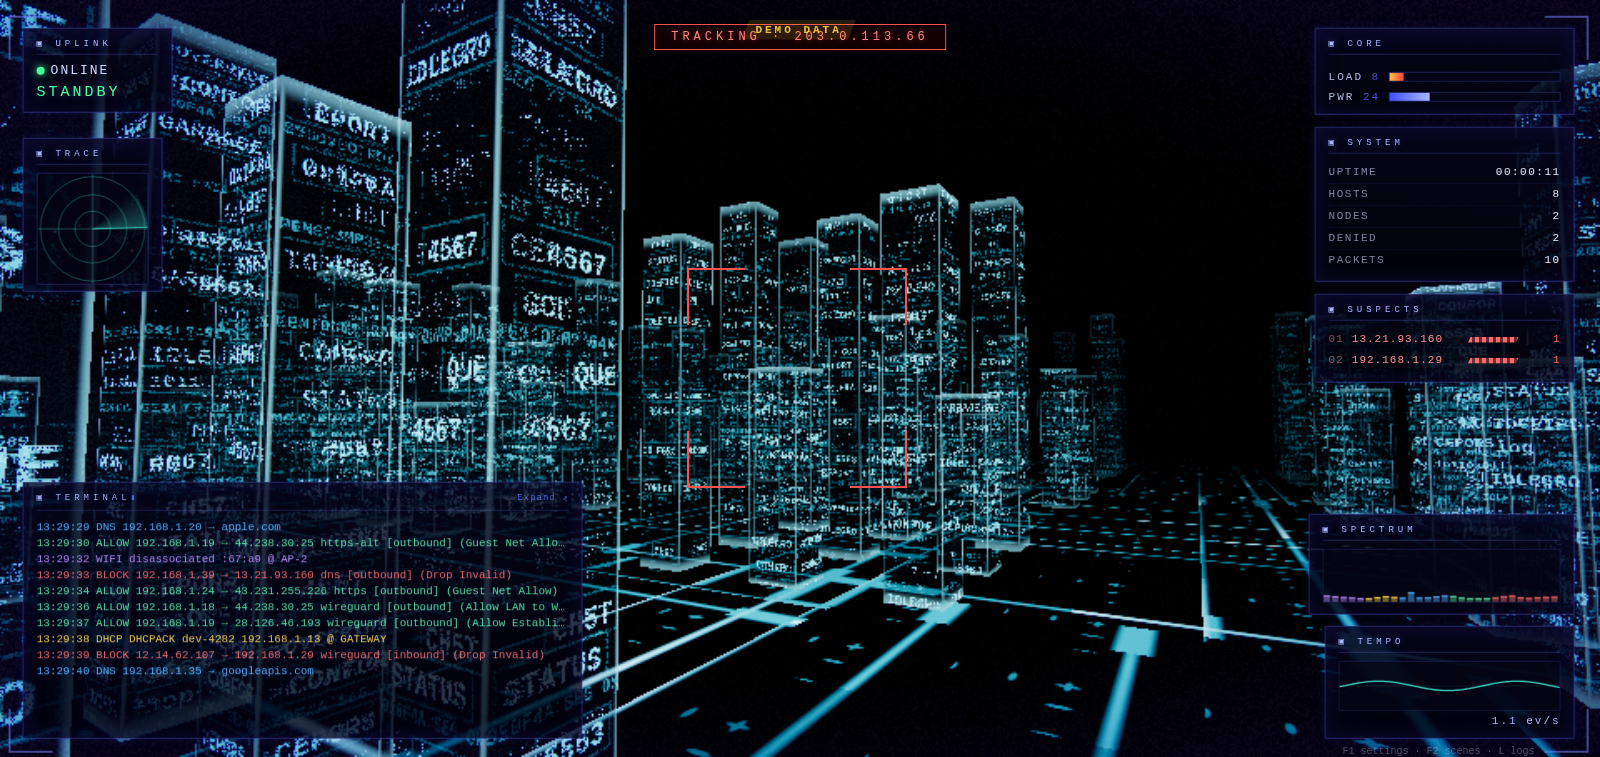
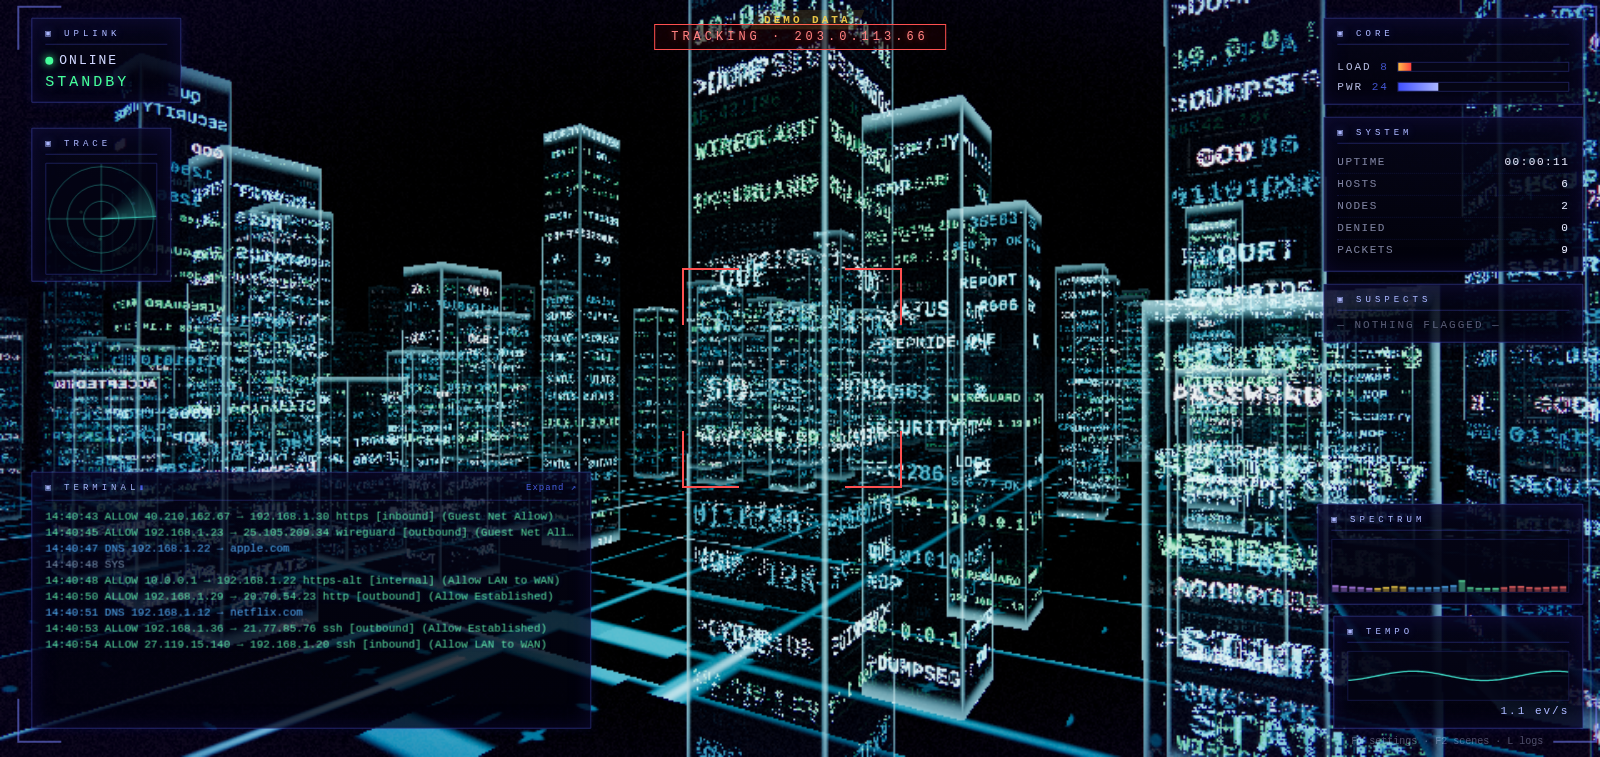
gibson: long sweeping corners with a swell; the wall speaks in log colors
The turns still read as a pivot: the arc was tight (radius 3) and the
flight slowed to 70% through it. Widen the arc to 6.5 - it still fits
the street, the corner dips only r(sqrt2-1) toward a block - and fly it
at full speed, so a ninety-degree turn is a long glide instead of a
pause-and-shuffle. Add a slow rise-and-fall swell so the flight drifts
up and down through the streets.

The listings were random filler. They now come off the live log stream
- addresses, domains, hostnames, services, access points - each drawn
in the color the comms log already gives that kind of message: green
allow, red block, orange threat, blue DNS, yellow DHCP, violet Wi-Fi.
Long hostnames shrink to fit their box instead of being skipped, and a
quiet hum of generic wall-words keeps faces busy until the stream fills
the pool. The tower shader was tinting sampled words back to cyan by
luminance; it keeps the atlas color now, so the wall says allow/DNS/
block in the same colors as the log.

diff --git a/web/src/themes/gibson/textatlas.ts b/web/src/themes/gibson/textatlas.ts
@@ -1,17 +1,16 @@
 import { CanvasTexture, NearestFilter, SRGBColorSpace } from 'three';
 
 /**
- * The listings on the tower faces, like the film's cyberspace: glowing cyan
- * words — STATUS, ERROR, REPORT, Security, R606, >OVERRIDE — each set inside
- * a thin digital box, with dim hex/binary log lines underneath, covering the
- * faces and scrolling slowly up or down. Words seen in live traffic
- * (hostnames, DNS queries, addresses) join the pool, so the wall quietly
- * fills with your own network. The whole atlas redraws every few seconds;
- * towers pick cells with per-face hashes, so no two faces match.
- *
- * The atlas is a grid of cells sized to match one line-strip on a tower face
- * (1 world unit wide : uPitch tall), so glyphs keep their aspect and read as
- * words in boxes, not stripes.
+ * The listings on the tower faces, like the film's cyberspace: glowing words
+ * set in thin digital boxes, scrolling slowly up or down the faces. The words
+ * are the network's own log stream - the addresses, domains, hostnames,
+ * services and devices from live traffic - each drawn in the color the comms
+ * log gives that kind of message: green allow, red block, orange threat,
+ * blue DNS, yellow DHCP, violet Wi-Fi. Long words shrink to fit their box,
+ * so a whole hostname reads on one line. Until the stream has filled the
+ * pool, a quiet hum of generic wall-words keeps the faces busy; the real log
+ * takes over from there. The atlas repaints a few cells at a time, so new
+ * words trickle in while the towers keep scrolling.
  */
 
 const COLS = 8;
@@ -19,18 +18,23 @@ const ROWS = 6;
 const CW = 128;
 const CH = 96;
 
-const TOKENS = [
-  'STATUS', 'REPORT', 'ERROR', 'Security', 'COMFRO', 'CONFOR', 'CEPORS',
-  'IDLEGRO', 'IDEEIBD', 'CH57', '7P57', 'R606', 'SARE', '4S67', '3816',
-  '4567', 'CH5T', '>OVERRIDE', '>DUMPSEG', '>VMERASE', 'log', 'mov', 'nop',
-  'QUE', 'PASSWORD', '11010011', '01101010', '10110x011', '0x1F8A', '20fx89c',
-  '5563', '1286', '35563', 'GARBAGE', 'GOD', 'ACCEPTED', '>>> ',
+/** the comms log's own palette (styles.css), so wall and log agree */
+export type WordKind = 'allow' | 'block' | 'threat' | 'dns' | 'dhcp' | 'wifi' | 'system';
+const KIND_COLOR: Record<WordKind, string> = {
+  allow: '#5ce6a4', block: '#ff6b6b', threat: '#ff9a45', dns: '#55b5ff',
+  dhcp: '#ffd84d', wifi: '#c08cff', system: '#7d99b3',
+};
+
+const AMBIENT: Array<[string, string]> = [
+  ['STATUS', '#5fe6ff'], ['REPORT', '#5fe6ff'], ['SECURITY', '#5fe6ff'],
+  ['R606', '#5fe6ff'], ['>OVERRIDE', '#9fefff'], ['>DUMPSEG', '#9fefff'],
+  ['LOG', '#5fe6ff'], ['NOP', '#5fe6ff'], ['QUE', '#5fe6ff'],
+  ['PASSWORD', '#dff2ff'], ['ACCEPTED', '#dff2ff'], ['GOD', '#e8fbff'],
+  ['01101010', '#3fa8c8'], ['0x1F8A', '#3fa8c8'], ['1286', '#3fa8c8'],
+  ['35563', '#3fa8c8'], ['SEG 77 OK', '#3fa8c8'], ['CRC 12K', '#3fa8c8'],
 ];
 
-const SUBS = [
-  '0x0F4A SEG OK', '10110 01101', '01101 00110', 'CRC FAIL 12K',
-  'SYS::LOG 771', 'MEM DUMP 64K', 'IO 0x3C RDY', 'PING 12MS', 'SEG 77 OK',
-];
+interface Word { t: string; c: string }
 
 export class TextAtlas {
   readonly texture: CanvasTexture;
@@ -38,7 +42,8 @@ export class TextAtlas {
   readonly rows = ROWS;
   private canvas: HTMLCanvasElement;
   private ctx: CanvasRenderingContext2D;
-  private words: string[] = [];
+  private words: Word[] = [];
+  private seen = new Set<string>();
 
   constructor() {
     this.canvas = document.createElement('canvas');
@@ -53,14 +58,20 @@ export class TextAtlas {
     this.rebuild();
   }
 
-  /** A word from live traffic joins the listings. */
-  addWord(s: string | null | undefined): void {
+  /** A piece of the log stream joins the listings, in its log color. */
+  addWord(s: string | null | undefined, kind: WordKind = 'system'): void {
     if (!s) return;
-    const w = s.toUpperCase().replace(/\s+/g, ' ').slice(0, 14);
-    if (!w) return;
-    this.words.push(w);
-    if (this.words.length > 400) this.words.splice(0, 200);
+    const w = s.toUpperCase().replace(/[^0-9A-Z._:@-]+/g, ' ').trim().replace(/\s+/g, ' ').slice(0, 14);
+    if (!w || this.seen.has(w)) return;
+    this.seen.add(w);
+    this.words.push({ t: w, c: KIND_COLOR[kind] ?? '#5fe6ff' });
+    if (this.words.length > 400) {
+      const dropped = this.words.splice(0, 200);
+      for (const d of dropped) this.seen.delete(d.t);
+    }
   }
+
+  get streamSize(): number { return this.words.length; }
 
   private first = true;
 
@@ -79,34 +90,70 @@ export class TextAtlas {
     this.texture.needsUpdate = true;
   }
 
+  /** Prefer the live log once it has a decent pool; ambient hum before and between. */
+  private pick(): Word {
+    if (this.words.length >= 30 && Math.random() < 0.85) {
+      return this.words[(Math.random() * this.words.length) | 0];
+    }
+    if (this.words.length && Math.random() < 0.4) {
+      return this.words[(Math.random() * this.words.length) | 0];
+    }
+    const [t, c] = AMBIENT[(Math.random() * AMBIENT.length) | 0];
+    return { t, c };
+  }
+
   private drawCell(col: number, row: number): void {
     const c = this.ctx;
     const x = col * CW, y = row * CH;
     c.fillStyle = '#000';
     c.fillRect(x, y, CW, CH);
-    const pick = (): string =>
-      this.words.length && Math.random() < 0.34
-        ? this.words[(Math.random() * this.words.length) | 0]
-        : TOKENS[(Math.random() * TOKENS.length) | 0];
-    const box = (word: string, by: number): void => {
-      const size = word.length > 11 ? 15 : word.length > 8 ? 19 : 24;
-      c.font = `bold ${size}px "Courier New", monospace`;
-      const bw = c.measureText(word).width + 12;
-      if (bw > CW - 10) return;
-      const bh = size + 8;
-      const bx = x + 4 + Math.random() * (CW - 8 - bw);
-      c.strokeStyle = 'rgba(52, 200, 255, 0.4)';
-      c.lineWidth = 2;
-      c.strokeRect(bx, by, bw, bh);
-      c.fillStyle = word === 'GARBAGE' || word === 'GOD' ? '#e8fbff' : '#5fe6ff';
-      c.fillText(word, bx + 6, by + bh - 6);
-    };
-    box(pick(), y + 3 + Math.random() * 8);
-    if (Math.random() < 0.85) box(pick(), y + 38 + Math.random() * 8);
+    this.box(this.pick(), x, y + 3 + Math.random() * 8);
+    if (Math.random() < 0.85) this.box(this.pick(), x, y + 38 + Math.random() * 8);
     if (Math.random() < 0.8) {
+      // the small print: another line of the stream, dimmed
+      const w = this.pick();
       c.font = `bold 15px "Courier New", monospace`;
-      c.fillStyle = 'rgba(40, 165, 205, 0.7)';
-      c.fillText(SUBS[(Math.random() * SUBS.length) | 0], x + 7, y + CH - 8);
+      c.fillStyle = rgba(w.c, 0.5);
+      c.fillText(w.t, x + 7, y + CH - 8);
     }
   }
+
+  /** A word in a thin digital box, in its log color, shrunk to fit the cell. */
+  private box(w: Word, x: number, by: number): void {
+    const c = this.ctx;
+    const base = w.t.length > 11 ? 15 : w.t.length > 8 ? 19 : 24;
+    c.font = `bold ${base}px "Courier New", monospace`;
+    // long hostnames and domains shrink until they fit their box; nothing
+    // gets skipped, the wall is meant to read like a real log
+    let text = w.t;
+    let size = base;
+    for (;;) {
+      const mw = c.measureText(text).width;
+      if (mw <= CW - 16) break;
+      const shrink = Math.floor(size * (CW - 16) / mw);
+      if (shrink >= 11 && shrink < size) {
+        size = shrink;
+        c.font = `bold ${size}px "Courier New", monospace`;
+        continue;
+      }
+      text = text.slice(0, Math.max(2, text.length - 2));
+      if (text.length <= 2) return;
+    }
+    const bw = c.measureText(text).width + 12;
+    const bh = size + 8;
+    const bx = x + 4 + Math.random() * Math.max(0, CW - 8 - bw);
+    c.strokeStyle = rgba(w.c, 0.4);
+    c.lineWidth = 2;
+    c.strokeRect(bx, by, bw, bh);
+    c.shadowColor = w.c;
+    c.shadowBlur = 4;
+    c.fillStyle = w.c;
+    c.fillText(text, bx + 6, by + bh - 6);
+    c.shadowBlur = 0;
+  }
+}
+
+function rgba(hex: string, a: number): string {
+  const n = parseInt(hex.slice(1), 16);
+  return `rgba(${(n >> 16) & 255}, ${(n >> 8) & 255}, ${n & 255}, ${a})`;
 }

diff --git a/web/src/themes/gibson/index.ts b/web/src/themes/gibson/index.ts
@@ -101,8 +101,8 @@ async function create(host: ThemeHost<typeof GIBSON_DEFAULTS>, init: RendererIni
   // street lattice lines. At each intersection it goes straight about half
   // the time, and otherwise carves a quarter arc of radius TURN_R - which
   // fits inside the street width, so the flight can't clip a tower or leave
-  // the city - landing exactly on the crossing street's line. Straights ease
-  // their speed down through a turn; nothing ever stops.
+  // the city - landing exactly on the crossing street's line. The arc is
+  // long and flown at full speed: a sweeping glide, never a pivot.
   let cx = 0, cz = 40;
   let kHead = 2; // down the street x = 0, heading -z
   let decidedFor = -1;
@@ -170,11 +170,12 @@ async function create(host: ThemeHost<typeof GIBSON_DEFAULTS>, init: RendererIni
   function event(se: SceneEvent, replay: boolean): void {
     const ev = se.ev;
     const who = ev.src_ip ?? ev.dst_ip ?? null;
-    if (se.kind === 'allow' || se.kind === 'block' || se.kind === 'threat') atlas.addWord(who);
+    if (se.kind === 'allow' || se.kind === 'block' || se.kind === 'threat') atlas.addWord(who, se.kind);
     if (replay) return;
     switch (se.kind) {
       case 'allow': {
         audio.cueSong('allow', who ?? undefined);
+        atlas.addWord(ev.service_name ?? (ev.dst_port ? `:${ev.dst_port}` : null), 'allow');
         if (!settings.gPulses || !throttle.allow(`gb|alw|${ev.src_ip}|${ev.dst_ip}`, 0.4)) break;
         towers.pulse(uOf(who));
         audio.sfx('pulse', { pan: (Math.random() - 0.5) * 1.2 });
@@ -190,7 +191,7 @@ async function create(host: ThemeHost<typeof GIBSON_DEFAULTS>, init: RendererIni
       }
       case 'threat': {
         audio.cueSong('threat', who ?? undefined);
-        atlas.addWord(who);
+        atlas.addWord(ev.service_name ?? null, 'threat');
         towers.flag(uOf(who), 8);
         if (settings.gLock && throttle.allow(`gb|thr|${who}`, 12)) startLock(who);
         break;
@@ -198,7 +199,8 @@ async function create(host: ThemeHost<typeof GIBSON_DEFAULTS>, init: RendererIni
       case 'dns': {
         audio.cueSong('dns', ev.src_ip ?? undefined);
         if (!settings.gLookups || !ev.dns_query || !throttle.allow(`gb|dns|${ev.dns_query}`, 3)) break;
-        atlas.addWord(ev.dns_query);
+        atlas.addWord(ev.dns_query, 'dns');
+        atlas.addWord(ev.dns_answer ?? null, 'dns');
         towers.pulse(uOf(ev.dns_query));
         break;
       }
@@ -206,7 +208,7 @@ async function create(host: ThemeHost<typeof GIBSON_DEFAULTS>, init: RendererIni
         if (!throttle.allow(`gb|dhcp|${ev.syslog_host}|${ev.hostname}`, 2)) break;
         audio.cueSong('dhcp');
         const name = ev.hostname || (ev.mac_address ? `dev-${ev.mac_address.replace(/:/g, '').slice(-4).toUpperCase()}` : ev.src_ip ?? 'device');
-        atlas.addWord(name);
+        atlas.addWord(name, 'dhcp');
         if (settings.gWrites) towers.raise(uOf(name));
         audio.sfx('write', { pan: (Math.random() - 0.5) });
         break;
@@ -216,10 +218,12 @@ async function create(host: ThemeHost<typeof GIBSON_DEFAULTS>, init: RendererIni
         audio.cueSong('wifi');
         if (se.wifi === 'joined') {
           audio.sfx('granted');
+          atlas.addWord(ev.syslog_host, 'wifi');
           banner('PASSWORD ACCEPTED', '#dff2ff', 'grant', 70, 50);
           towers.pulse(uOf(ev.mac_address ?? ev.src_ip));
         } else if (se.wifi === 'bad') {
           audio.sfx('denied', { pan: 0.3 });
+          atlas.addWord(ev.mac_address ? `DEV ${ev.mac_address.slice(-5)}` : ev.syslog_host, 'wifi');
           towers.flag(uOf(ev.mac_address), 4);
         }
         break;
@@ -245,10 +249,12 @@ async function create(host: ThemeHost<typeof GIBSON_DEFAULTS>, init: RendererIni
     if (lockOn && performance.now() > lockUntil) endLock();
     flyT += dtReal;
     const rate = state.rate30s / 30;
-    const v = (0.9 + Math.min(2.5, rate * 0.06) + heat * 0.9) * settings.gScrollSpeed * (lockOn ? 0.3 : arc ? 0.7 : 1);
+    const v = (0.9 + Math.min(2.5, rate * 0.06) + heat * 0.9) * settings.gScrollSpeed * (lockOn ? 0.3 : 1);
     fly(dtReal, v);
 
-    const camY = lockOn ? 3.0 : 2.4 + Math.sin(flyT * 0.067) * 0.35 + f.wanderY * 0.0004;
+    // the swell: a slow rising and falling through the streets, two periods
+    // so the bob never marches to a metronome
+    const camY = lockOn ? 3.0 : 2.4 + Math.sin(flyT * 0.11) * 0.55 + Math.sin(flyT * 0.043) * 0.35 + f.wanderY * 0.0004;
     if (lockOn) {
       lookWant.copy(lockTarget);
       const sp = lockTarget.clone().project(world.camera);
@@ -265,7 +271,7 @@ async function create(host: ThemeHost<typeof GIBSON_DEFAULTS>, init: RendererIni
     world.camera.position.set(cx + f.wanderX * 0.001, camY, cz);
     world.camera.lookAt(look);
     // bank through the arc, easing in and out like a patrol car
-    const rollWant = arc && !lockOn ? -arc.d * Math.sin((arc.p / (Math.PI / 2)) * Math.PI) * 0.07 : 0;
+    const rollWant = arc && !lockOn ? -arc.d * Math.sin((arc.p / (Math.PI / 2)) * Math.PI) * 0.09 : 0;
     roll += (rollWant - roll) * Math.min(1, dtReal * 4);
     if (roll !== 0) world.camera.rotateZ(roll);
 

diff --git a/web/src/themes/gibson/towers.ts b/web/src/themes/gibson/towers.ts
@@ -18,8 +18,10 @@ import type { TextAtlas } from './textatlas';
 const SP_X = 2.6;
 /** the city's block period: street + block + street, same on both axes */
 export const CITY_P = 13;
-/** the flight turns on arcs of this radius - it fits inside the street width */
-export const TURN_R = 3;
+/** the flight turns on long arcs of this radius - a sweeping corner, and it
+ *  still fits in the street: the arc dips only r(√2-1) ≈ 2.7 toward a corner
+ *  while tower faces stand 3.4 out */
+export const TURN_R = 6.5;
 
 const VERT = /* glsl */`
   attribute float aSeed;
@@ -42,7 +44,7 @@ const FRAG = /* glsl */`
   precision highp float;
   uniform sampler2D uAtlas;
   uniform float uCols, uRows, uPitch, uFogD, uPulse;
-  uniform vec3 uCamPos, uFill, uEdge, uText, uRed, uTextRed;
+  uniform vec3 uCamPos, uFill, uEdge, uRed, uTextRed;
   varying vec3 vLocal, vWorld, vN;
   varying float vSeed, vScroll, vFlash, vRed, vH;
   float h21(vec2 p) { p = fract(p * vec2(123.34, 456.21)); p += dot(p, p + 45.32); return fract(p.x * p.y); }
@@ -68,11 +70,13 @@ const FRAG = /* glsl */`
     float cx = floor(mod(hs * 997.0, uCols));
     float cy = floor(mod(hs * 39187.0, uRows));
     vec2 tuv = vec2((cx + 0.04 + u * 0.92) / uCols, (cy + 0.05 + f * 0.9) / uRows);
+    // the word keeps the atlas color: the comms log's own palette, so the
+    // wall says allow/block/DNS in the same colors the log does
     vec3 tcol = texture2D(uAtlas, tuv).rgb;
     float tx = max(tcol.r, max(tcol.g, tcol.b)) * (1.0 - top);
     vec3 fill = mix(uFill, uRed * 0.22, vRed);
     vec3 edge = mix(uEdge, uRed, vRed);
-    vec3 textC = mix(uText, uTextRed, vRed);
+    vec3 textC = mix(tcol * 1.15, uTextRed, vRed);
     vec3 col = fill * 0.35;
     col += edge * frame * (0.5 + vFlash * 2.6);
     col += textC * tx * (1.6 + vFlash * 2.2) * uPulse;
@@ -119,7 +123,6 @@ export class Towers {
         uCamPos: { value: new Vector3(0, 2.5, 40) },
         uFill: { value: new Color(0x061016) },
         uEdge: { value: new Color(0x9fefff) },
-        uText: { value: new Color(0x53e0ff) },
         uRed: { value: new Color(0xff2e2e) },
         uTextRed: { value: new Color(0xffb8b8) },
       },

diff --git a/README.md b/README.md
@@ -791,25 +791,27 @@ drift** stops the camera.
 The storage wall from *Hackers*, rebuilt in 3D as a computer city: a lattice
 of tower blocks with streets in both directions, all standing still in true
 world coordinates while the camera flies the streets — gliding straight down
-most blocks and carving a full ninety-degree turn at about every other
-intersection, banking like a patrol car, exactly like the film's
-flythrough. The translucent monoliths are
-always standing, and their faces are covered in glowing cyan listings set in
-neat digital boxes — `STATUS`, `ERROR`, `REPORT`, `Security`, `R606`,
-`>OVERRIDE`, hex and binary — including the hostnames, addresses and domains
-your own traffic has passed by. The streets are wired like a circuit board,
-with energy pulses racing down the copper toward you, and ACCESS GRANTED /
-ACCESS DENIED signs hang on a tower face and pulse. When the wall gets busy
-it flies faster.
+most blocks and carving a long, sweeping ninety-degree arc at about every
+other intersection, banking like a patrol car, rising and falling as it
+goes, exactly like the film's flythrough. The translucent monoliths are
+always standing, and their faces are covered in glowing listings set in
+neat digital boxes — and those listings are your own log stream: the
+addresses, domains, hostnames and services from live traffic, each drawn in
+the color the comms log gives that kind of message (green allow, red block,
+orange threat, blue DNS, yellow DHCP, violet Wi-Fi), with hex and binary
+filling in around them. Long hostnames shrink to fit their box. The streets
+are wired like a circuit board, with energy pulses racing down the copper
+toward you, and ACCESS GRANTED / ACCESS DENIED signs hang on a tower face
+and pulse. When the wall gets busy it flies faster.
 
 | Event | On the wall |
 |-------|-------------|
-| allow | a pulse of light climbs the nearest face |
-| block | a tower burns red for a moment, and an **ACCESS DENIED** sign pulses on a face |
+| allow | a pulse of light climbs the nearest face, and the address joins the listings in green |
+| block | a tower burns red for a moment, an **ACCESS DENIED** sign pulses on a face, and the address joins the listings in red |
 | threat | a tower is flagged red and the camera swings around to lock onto it — reticle, `TRACKING · <attacker>` readout, the wall slows to a crawl, and the file is stamped **INTRUSION TRACED** as the lock releases |
-| dns | the domain joins the listings scrolling down every face |
-| dhcp | one far tower rewrites itself, with the device's hostname in its listings |
-| wifi | a join gets a **PASSWORD ACCEPTED** sign and a bright face pulse; a failure flashes one red |
+| dns | the domain joins the listings scrolling down every face, in blue |
+| dhcp | one far tower rewrites itself, with the device's hostname in its listings in yellow |
+| wifi | a join gets a **PASSWORD ACCEPTED** sign and a bright face pulse, with the access point in violet; a failure flashes one red |
 | system | nothing on the wall; the music hears it |
 
 Traffic weather is the load on the wall: **STANDBY**, **PAGING** in a storm and
